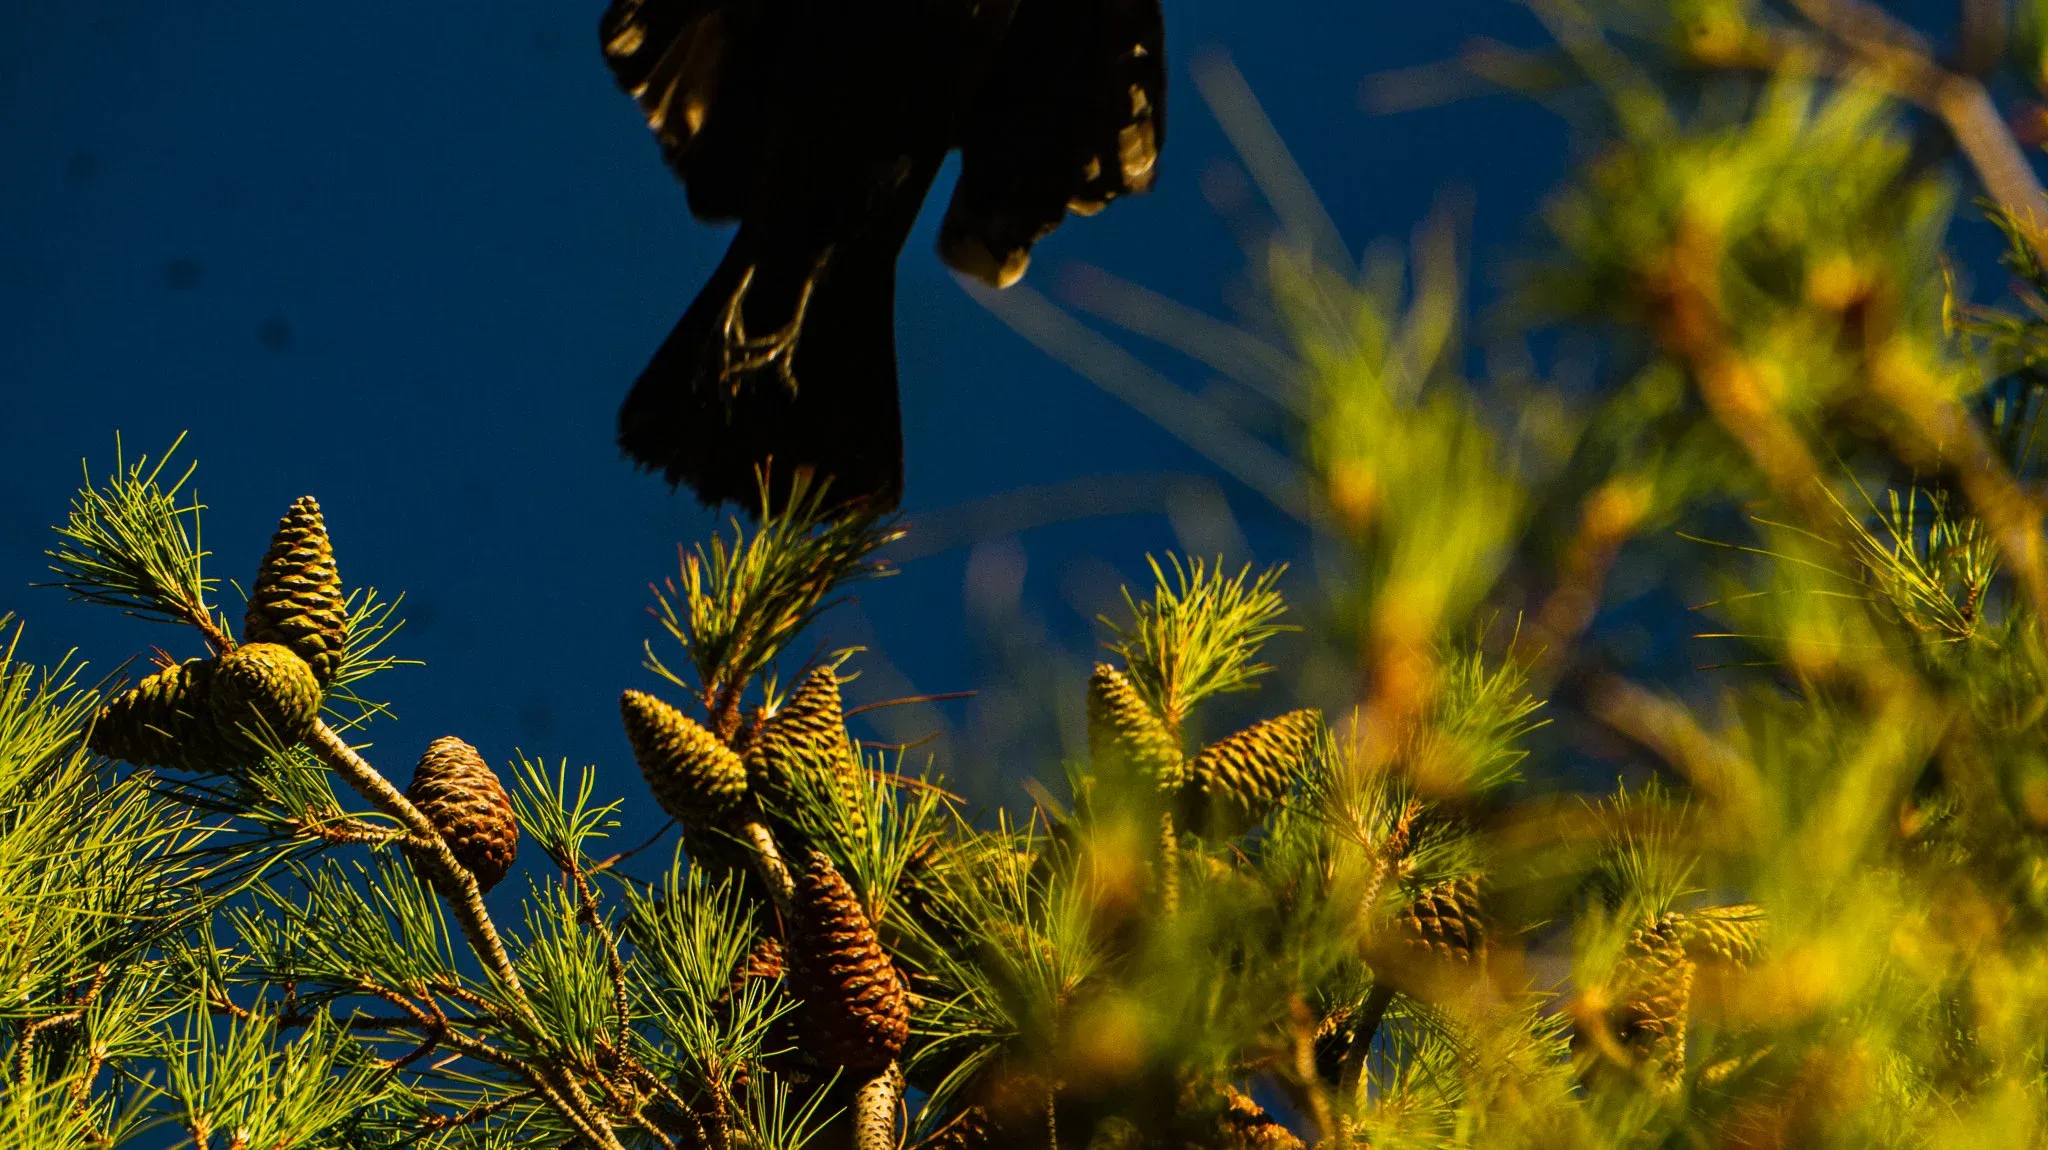
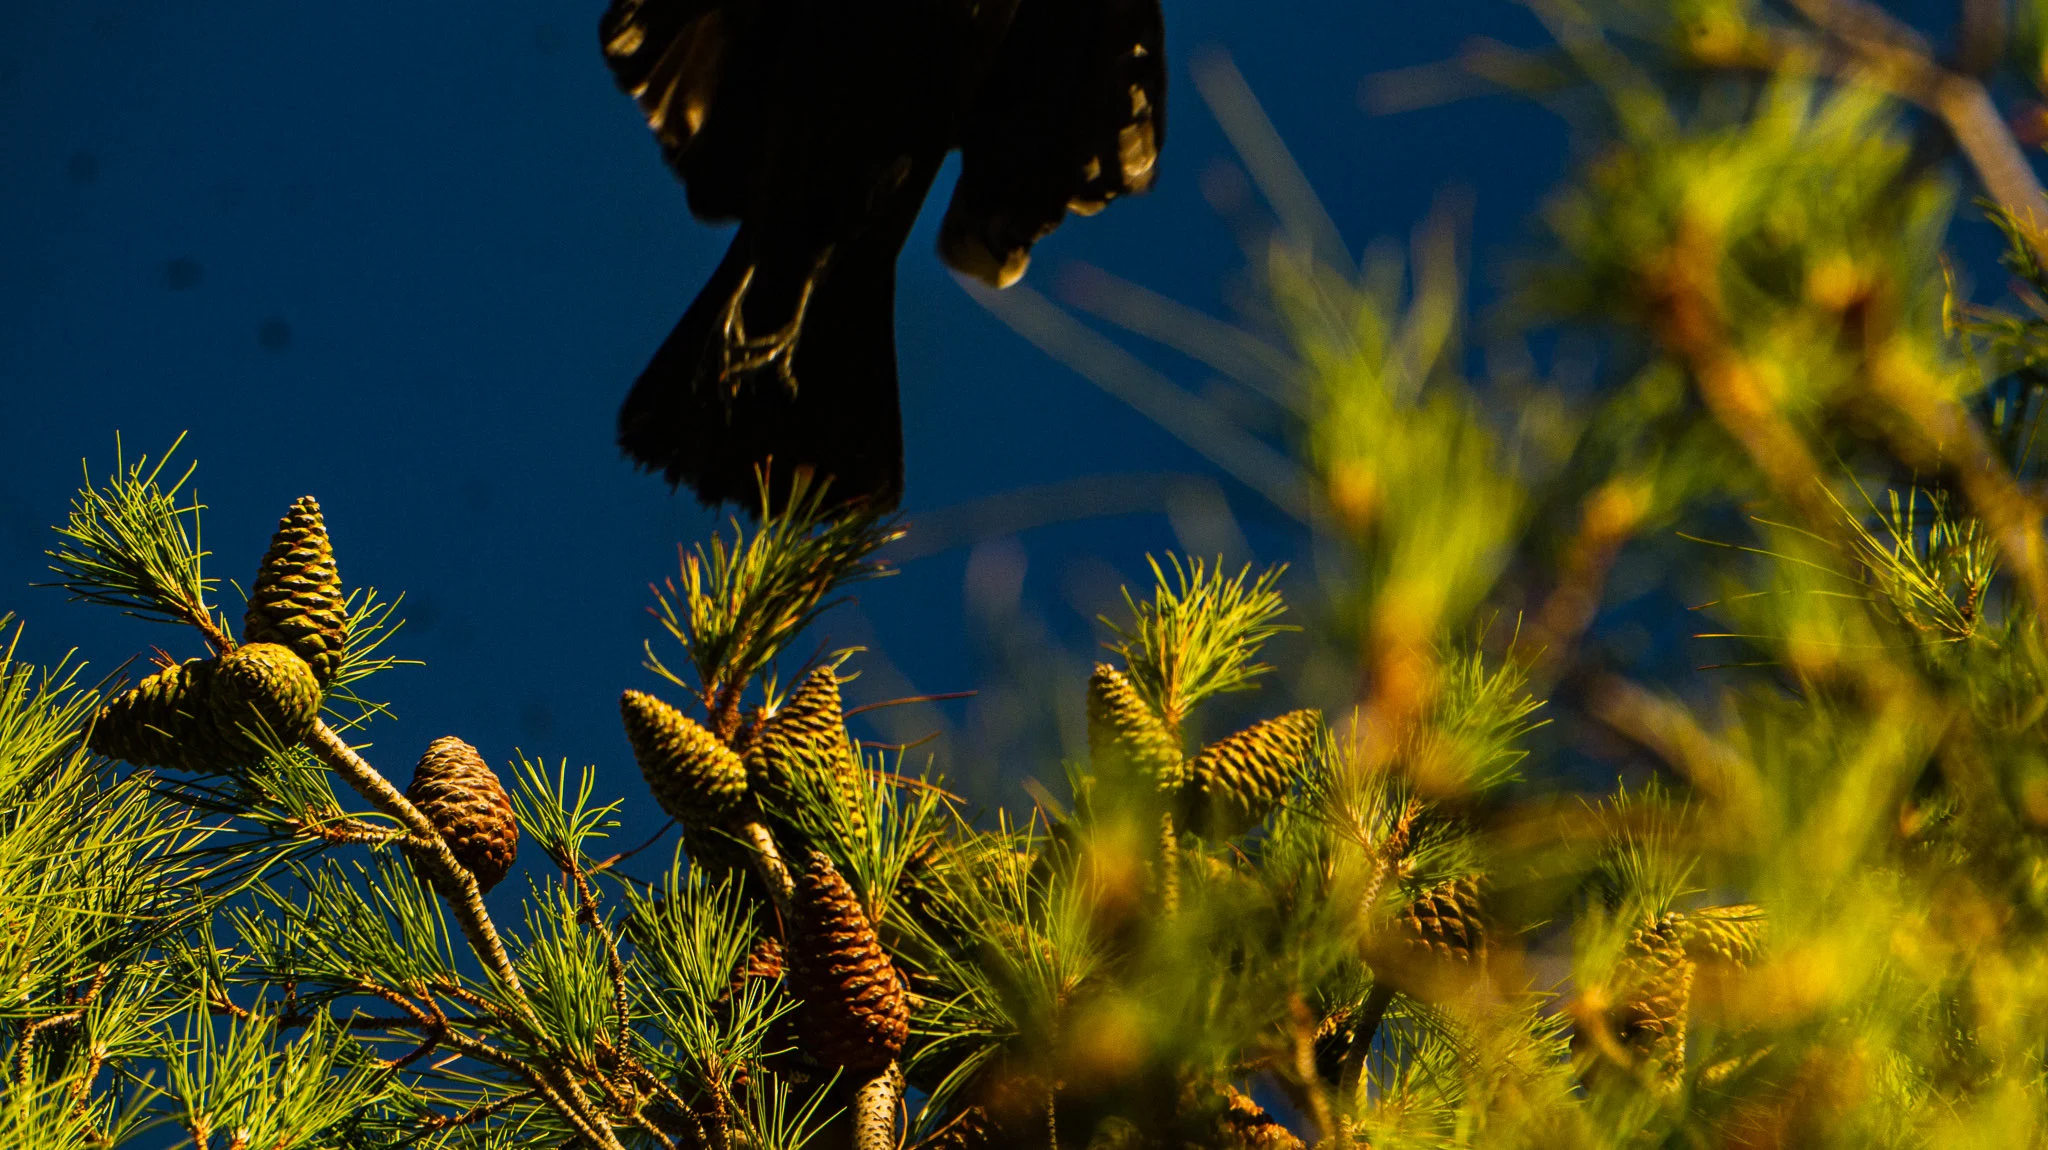
finally fixed the photos with a webp version and correct capitilization

diff --git a/index.html b/index.html
@@ -42,17 +42,17 @@
                 </p>
                 <div class="carousel">
                     <div class="group">
-                        <img src="Images/ladyatthecafephoto.jpg" alt="A photo of a lady with her drink in a cafe.">
-                        <img src="Images/borbphoto.jpg" alt="A photo of a bird taking flight off of some branches.">
-                        <img src="Images/coupleonthebeachphoto.jpg" alt="A photo of a couple on the beach together.">
-                        <img src="Images/ladyincafe2photo.jpg" alt="A photo of a lady in a cafe at a table waiting for her drink.">
+                        <img src="Images/ladyatthecafephoto.webp" alt="A photo of a lady with her drink in a cafe.">
+                        <img src="Images/borbphoto.webp" alt="A photo of a bird taking flight off of some branches.">
+                        <img src="Images/coupleonthebeachphoto.webp" alt="A photo of a couple on the beach together.">
+                        <img src="Images/ladyincafe2photo.webp" alt="A photo of a lady in a cafe at a table waiting for her drink.">
                         <img src="Images/photo1.jpg" alt="A photo of a gentleman in a black shirt with opposing colors on both sides of him.">
                     </div>
                     <div aria-hidden class="group">
-                        <img src="Images/ladyatthecafephoto.jpg" alt="A photo of a lady with her drink in a cafe.">
-                        <img src="Images/borbphoto.jpg" alt="A photo of a bird taking flight off of some branches.">
-                        <img src="Images/coupleonthebeachphoto.jpg" alt="A photo of a couple on the beach together.">
-                        <img src="Images/ladyincafe2photo.jpg" alt="A photo of a lady in a cafe at a table waiting for her drink.">
+                        <img src="Images/ladyatthecafephoto.webp" alt="A photo of a lady with her drink in a cafe.">
+                        <img src="Images/borbphoto.webp" alt="A photo of a bird taking flight off of some branches.">
+                        <img src="Images/coupleonthebeachphoto.webp" alt="A photo of a couple on the beach together.">
+                        <img src="Images/ladyincafe2photo.webp" alt="A photo of a lady in a cafe at a table waiting for her drink.">
                         <img src="Images/photo1.jpg" alt="A photo of a gentleman in a black shirt with opposing colors on both sides of him.">
                     </div>
                 </div>

diff --git a/photography.html b/photography.html
@@ -31,13 +31,13 @@
         </section>
         <section class="title" id="Portraits">
             <h2>Portraits</h2>
-                <img class="photography-image" src="Images/photo1.jpg" alt="A photo of a gentleman in a black shirt with opposing colors on both sides of him.">
+                <img class="photography-image" src="Images/photo1.webp" alt="A photo of a gentleman in a black shirt with opposing colors on both sides of him.">
         </section>
         <section class="title" id="Street Photography">
             <h2>Street Photography</h2>
-                <img class="photography-image" src="Images/coupleonthebeachphoto.jpg" alt="A photo of a couple on the beach together.">
-                <img class="photography-image" src="Images/ladyincafe2photo.jpg" alt="A photo of a lady in a cafe at a table waiting for her drink.">
-                <img class="photography-image" src="Images/ladyatthecafephoto.jpg" alt="A photo of a lady with her drink in a cafe.">
+                <img class="photography-image" src="Images/coupleonthebeachphoto.webp" alt="A photo of a couple on the beach together.">
+                <img class="photography-image" src="Images/ladyincafe2photo.webp" alt="A photo of a lady in a cafe at a table waiting for her drink.">
+                <img class="photography-image" src="Images/ladyatthecafephoto.webp" alt="A photo of a lady with her drink in a cafe.">
         </section>
     <div class="popup" id="popup" popover>
                 <h2>Contact</h2>
